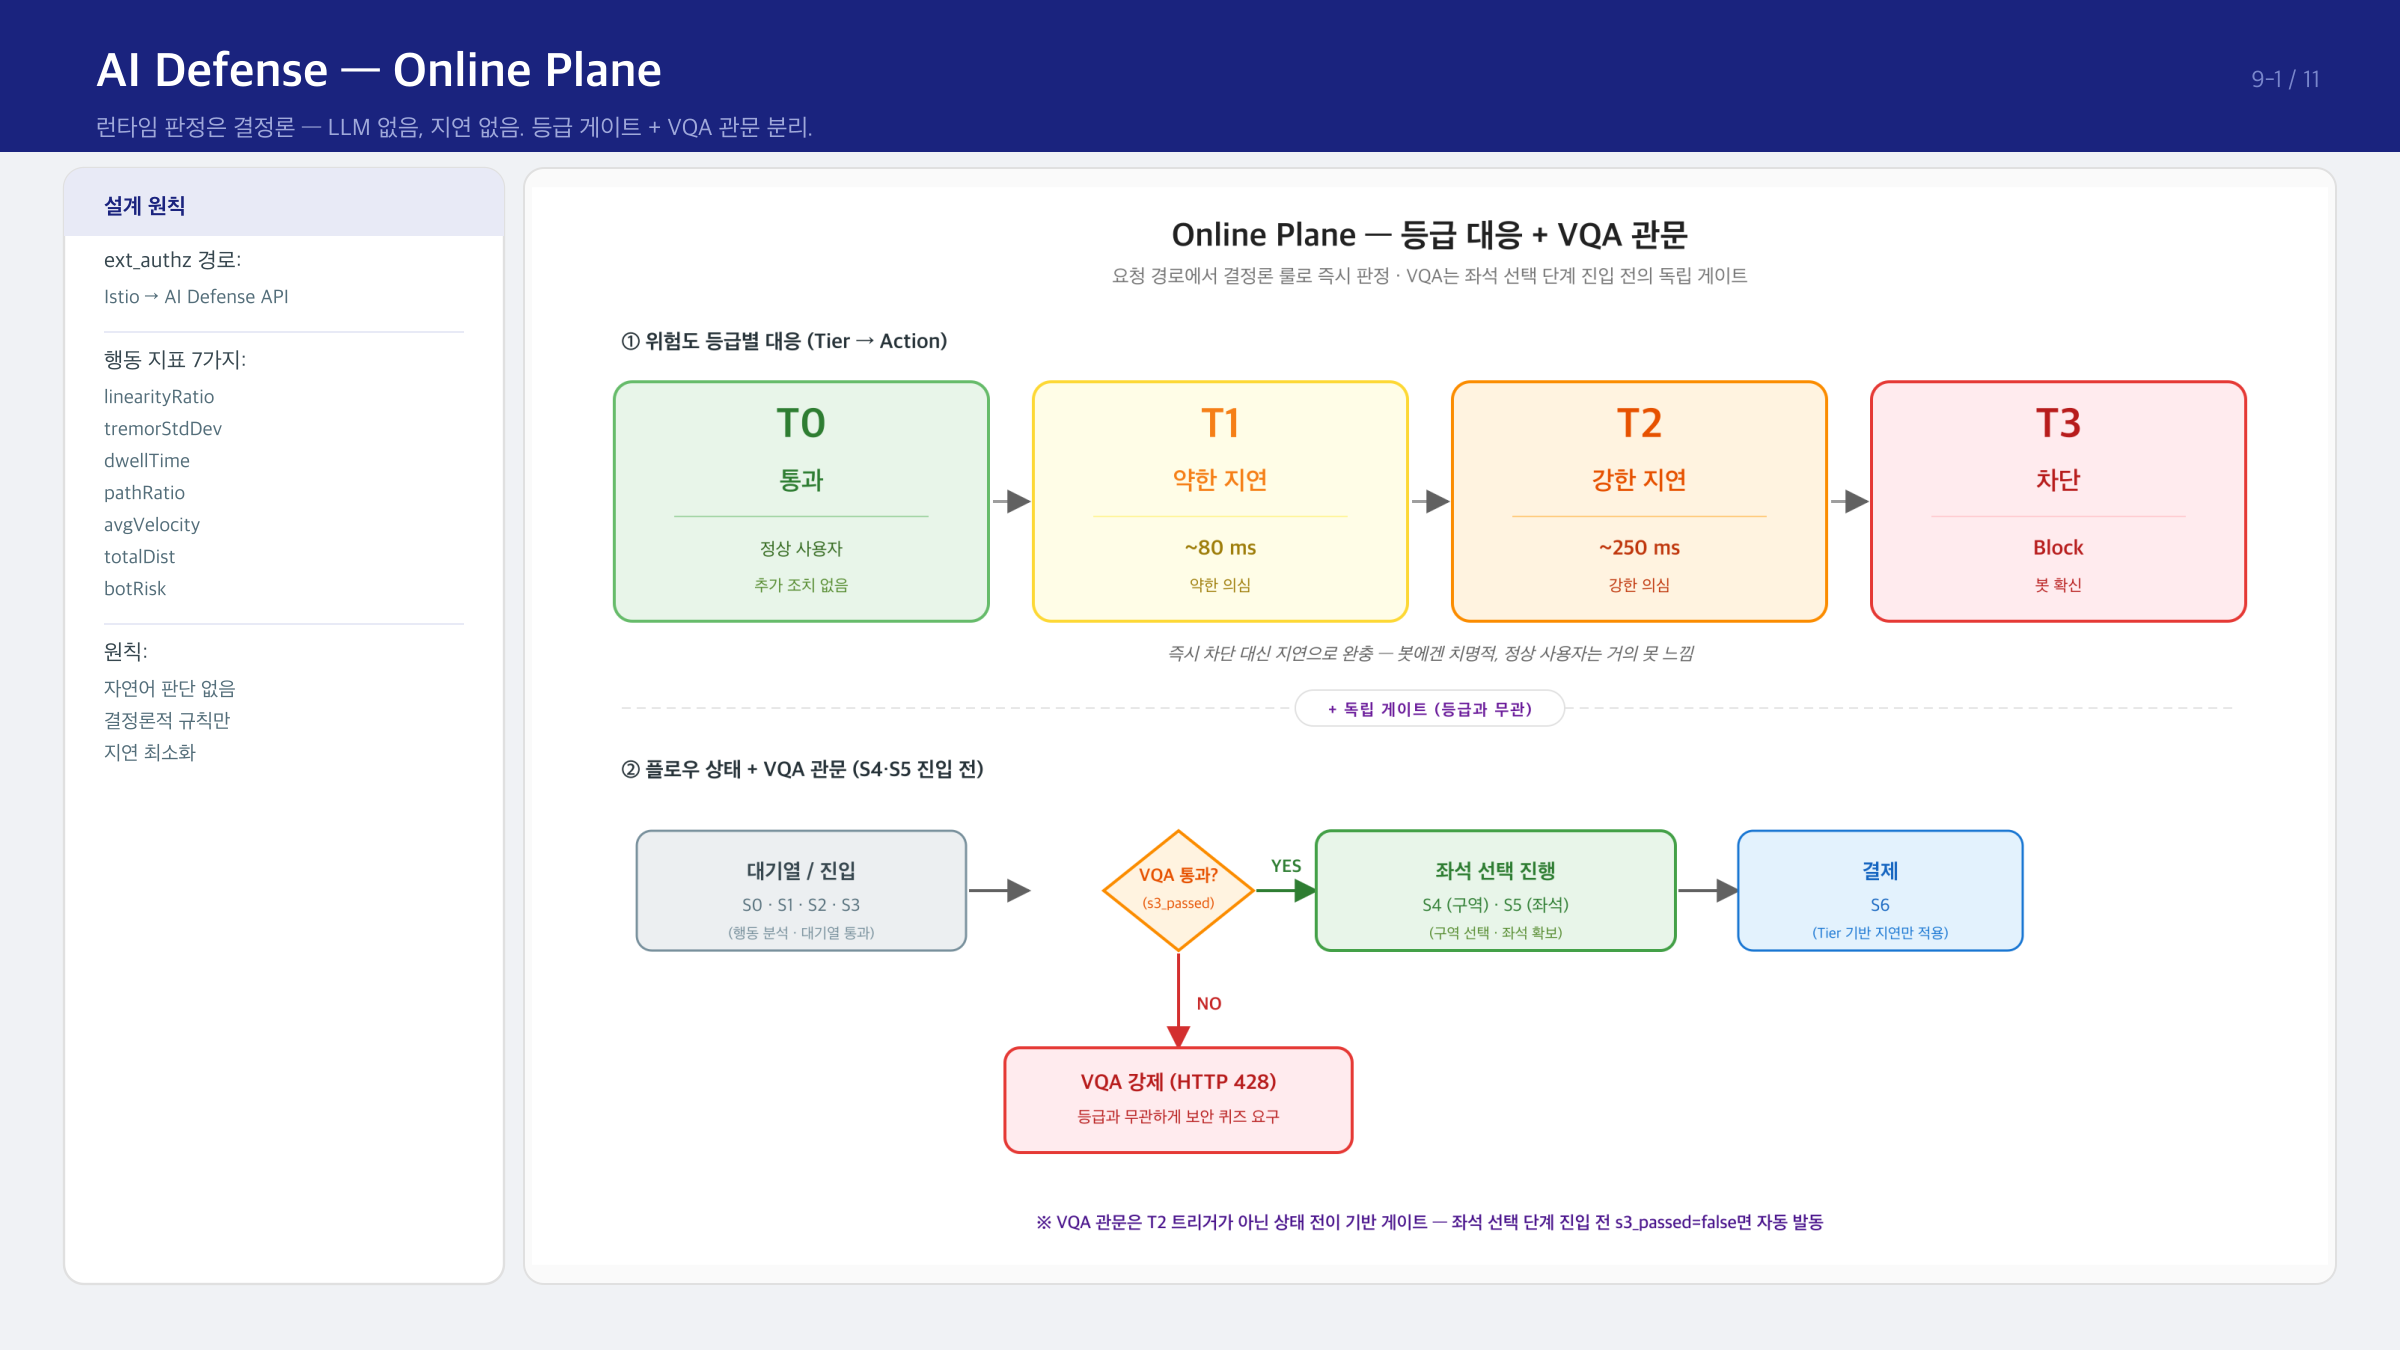
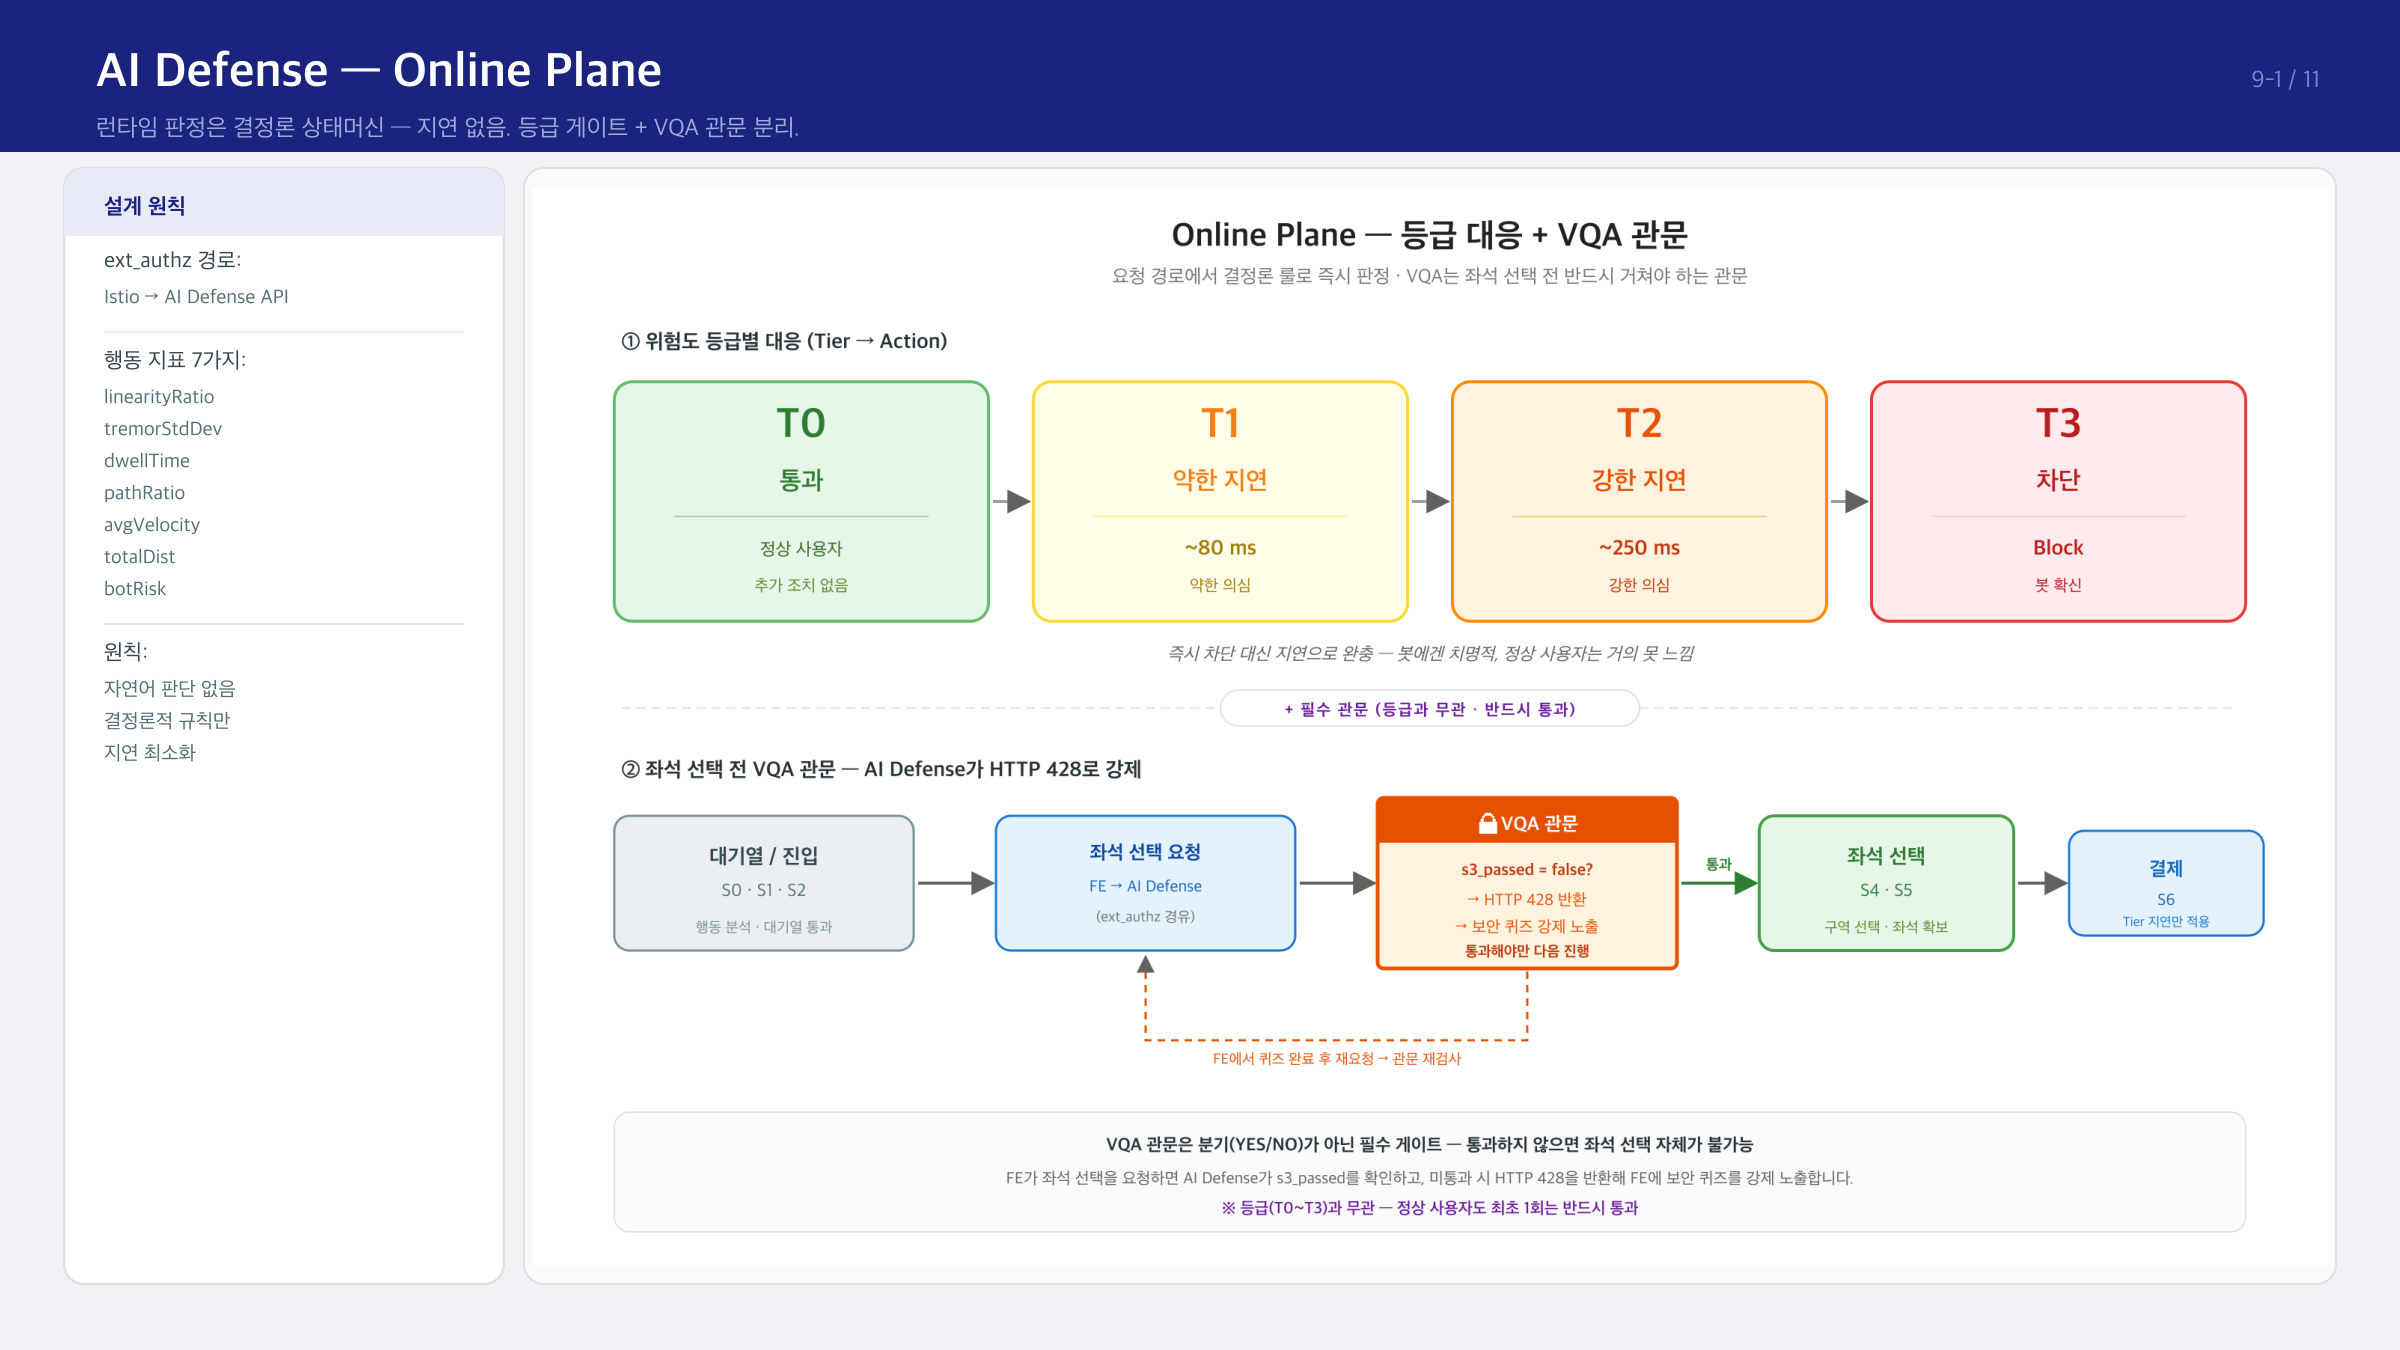
docs(ai): 발표 슬라이드(기존 매크로 유형 및 한계) 추가

diff --git a/docs/content/ai/presentation/slides/수정요청_PPT.md b/docs/content/ai/presentation/slides/수정요청_PPT.md
@@ -1,0 +1,81 @@
+# PPT 슬라이드 수정 요청
+
+> AI 팀 발표 장표 (8장 · 9-1장) 수정 사항 정리
+> 작성일: 2026-04-17
+
+---
+
+## 8장 — "공격과 방어를 동시에 만든다"
+
+### 좌측 패널
+
+| 위치 | 현재 | 수정 |
+|------|------|------|
+| 빨간 박스 제목 | T3 + 공격은 반대로 | **AI 매크로 공격은 반대로** |
+| 초록 박스 2번째 | 에이전트 = 결정론 (LLM 없음) | **실행 → 결정론 상태머신 (재현 가능)** |
+| 초록 박스 3번째 | 스웜 전략 = LLM (비동기 적응) | **전략 → LLM 비동기 조정** |
+
+### 우측 패널 — 표
+
+| 위치 | 현재 | 수정 |
+|------|------|------|
+| AI 공격 에이전트 · 역할 | 휴먼 모방 자동 예매 | **티켓팅 숙련자 모방 자동 예매** |
+| AI Defense · 역할 | 실시간 탐지 + 사후 판단 | **실시간 탐지 + LLM 사후 판단 + 방어 정책 개선** |
+| AI Defense · 스택 | D0 런타임 / 오프라인 LLM | **FastAPI + Redis + ClickHouse** |
+
+### 수정 이유
+
+- **"T3+"** 는 앞선 장표의 방어 등급 용어 — 여기선 **"AI 매크로"** 가 청중에게 직관적
+- **"LLM 없음"** 은 "AI 안 쓰나?"로 오해 가능 — 실행/전략 분리 구조를 **긍정형**으로 표현
+- **D0 런타임 · 오프라인 LLM** 은 아키텍처 설명이지 스택이 아님 — **실제 기술 스택**으로 교체
+
+---
+
+## 8장 — "공격 에이전트 구성"
+
+### 우측 패널
+
+| 위치 | 현재 | 수정 |
+|------|------|------|
+| 제목 | 스웜 구조 | **스웜 — 에이전트 팀 운영 구조** |
+| 설명문 | 에이전트들의 이벤트는 LLM 코디네이터로 전달되고, 코디네이터는 스웜 전체의 구역 전략을 비동기로 조정 | **여러 에이전트가 독립적으로 예매를 시도하고, 각자의 결과(성공·차단·퀴즈)가 LLM 코디네이터로 모입니다. 코디네이터는 이를 보고 전체 구역 전략을 비동기로 조정합니다.** |
+
+### 다이어그램
+
+| 위치 | 현재 | 수정 |
+|------|------|------|
+| 상단 라벨 | 에이전트 (결정론 · 최대 10) | **에이전트 (결정론)** |
+| 세 번째 박스 | Agent 3 | **Agent N** |
+
+### 수정 이유
+
+- "스웜"이란 단어를 그대로 쓰되, 바로 옆에 **"에이전트 팀 운영"** 풀이를 붙여 모르는 청중도 자연스럽게 이해
+- 에이전트 수는 고정이 아니라 자유 — "최대 10" 제거, Agent 3 → **Agent N**
+
+---
+
+## 9-1장 — "AI 방어 : 실시간 탐지"
+
+### 좌측 패널
+
+| 위치 | 현재 | 수정 |
+|------|------|------|
+| 소제목 | 원칙 | **핵심 동작 방식** |
+
+### 행동 지표 (7개 → 5개)
+
+| 현재 (영문만, 7개) | 수정 (한글 + 영문, 5개) |
+|------------------|---------------------|
+| LinearityRatio | **마우스 직선도 (linearityRatio)** |
+| TremorStdDevb | **손떨림 표준편차 (tremorStdDev)** |
+| dwellTime | **머뭇거림 시간 (dwellTime)** |
+| pathRatio | **경로 비율 (pathRatio)** |
+| avgVelocity | **평균 속도 (avgVelocity)** |
+| ~~totalDist~~ | **제거** — 중간 계산값 (행동 지표 아님) |
+| ~~botRisk~~ | **제거** — 최종 위험 점수 (행동 지표가 아니라 결과값) |
+
+### 수정 이유
+
+- 영문만 나열하면 비개발 청중이 이해 불가 — **한글(영문)** 병기
+- `totalDist`는 feature 계산의 중간 변수, `botRisk`는 최종 산출 점수 — 둘 다 **입력 행동 지표가 아님**
+- 실제 행동 feature는 **5가지** (docs 기준: `04-risk-scoring.md`)

diff --git a/docs/content/ai/presentation/slides/04_macro-types_brief.md b/docs/content/ai/presentation/slides/04_macro-types_brief.md
@@ -1,0 +1,45 @@
+# 4장 — 매크로 티켓팅 시나리오: 대표 유형과 방어 한계
+
+> **전달 메시지**
+> "매크로는 한 가지가 아닙니다. 유형마다 방어했지만, 각각 한계가 있습니다.
+> **다층으로 깎고, 깎고, 또 깎아도 — 공격이 진화하면 방어도 진화해야 합니다.**"
+
+---
+
+## 슬라이드 시각화 초안
+
+![장표 4 — 매크로 유형과 방어 한계](../images/final_04.png)
+
+> **단순 참고용입니다** — 디자인은 자유롭게 작업해주세요. 내용이 많다면 슬라이드를 더 쪼개주셔도 됩니다.
+> 편집용 원본: [final_04.svg](../images/final_04.svg)
+
+---
+
+## 슬라이드에 담을 내용
+
+### ① 문제 정의 (2줄)
+
+- 티켓팅 플랫폼 장애의 대부분은 매크로 트래픽
+- 사용자 피해: "이선좌" 반복 → 이탈 급증 / 주최자 피해: CS·환불 폭증
+
+### ② 대표 매크로 3유형 + 자체 방어 + 한계
+
+| 공격 방식 | 자체 방어 | 한계 |
+|---------|---------|------|
+| API 직접 호출 반복 | Rate Limit + IP 차단 | 분산 IP면 임계치 이하로 통과 |
+| 헤드리스 브라우저 자동화 | 봇 탐지 토큰 + 핑거프린트 | 토큰은 리버싱으로 위조 가능 · 같은 환경이면 정상 사용자도 같은 지문 → 오탐 위험 |
+| 실제 브라우저 + Residential Proxy | IP 패턴 추적 + AI 행동 분석 | Residential Proxy면 IP 평판 무력 · IP 추적 임계치가 낮으면 정상 사용자 오탐, 높으면 탐지 실패 |
+
+핵심 메시지: **"공격이 다양하니 방어도 다계층 — 하지만 각 계층마다 한계가 존재한다"**
+
+### ③ 다음 장 전환 브릿지
+
+> "다층으로 깎지만, 공격이 진화하면 방어도 진화해야 한다
+> — 그래서 우리는 **AI 매크로를 직접 만들어** 검증했습니다."
+
+→ 5장(AI 매크로 공격 — 공격자가 되어본다)으로 연결
+
+---
+
+## 참고 문서
+- 원본: 보안팀 매크로 유형 분석 자료 (T0/T2/T3 매트릭스 + AWS WAF 보완안)

diff --git a/docs/content/ai/presentation/slides/09-1_online-defense_brief.md b/docs/content/ai/presentation/slides/09-1_online-defense_brief.md
@@ -2,7 +2,7 @@
 
 > **전달 메시지**
 > "요청이 들어오는 순간 결정론 룰 엔진이 판별합니다.
-> LLM은 런타임에 두지 않습니다 — 지연이 생기기 때문입니다."
+> 실행은 빠르게, 판단(LLM)은 사후에."
 
 ---
 
@@ -57,11 +57,11 @@ T0~T3 등급과 무관하게 적용되는 별도 관문입니다.
 
 ![등급별 대응 흐름과 보안 퀴즈 관문](../images/slide6_tier_flow.png)
 
-### ⑤ 왜 LLM을 쓰지 않나
+### ⑤ 실행과 판단의 분리
 
-LLM을 런타임 판정에 두면 추론 시간만큼 모든 요청이 지연됩니다.
+LLM을 런타임에 두면 추론 시간만큼 모든 요청이 지연됩니다.
 티켓팅처럼 동시 요청이 폭증하는 상황에서 이는 정상 사용자에게도 영향을 줍니다.
-**결정론 룰 엔진**으로 대기 시간을 최소화하고, LLM은 오프라인(사후)에서만 활용합니다.
+그래서 **실행(런타임)은 결정론 상태머신으로 빠르게**, **판단(LLM)은 오프라인에서 정확하게** — 역할을 분리했습니다.
 
 ---
 
